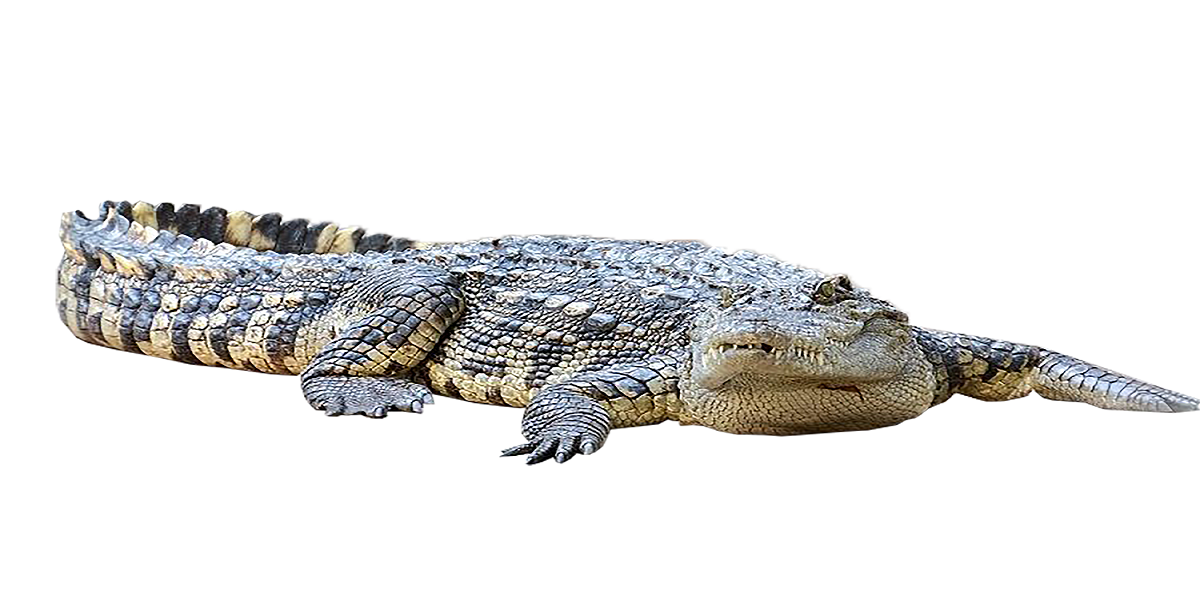
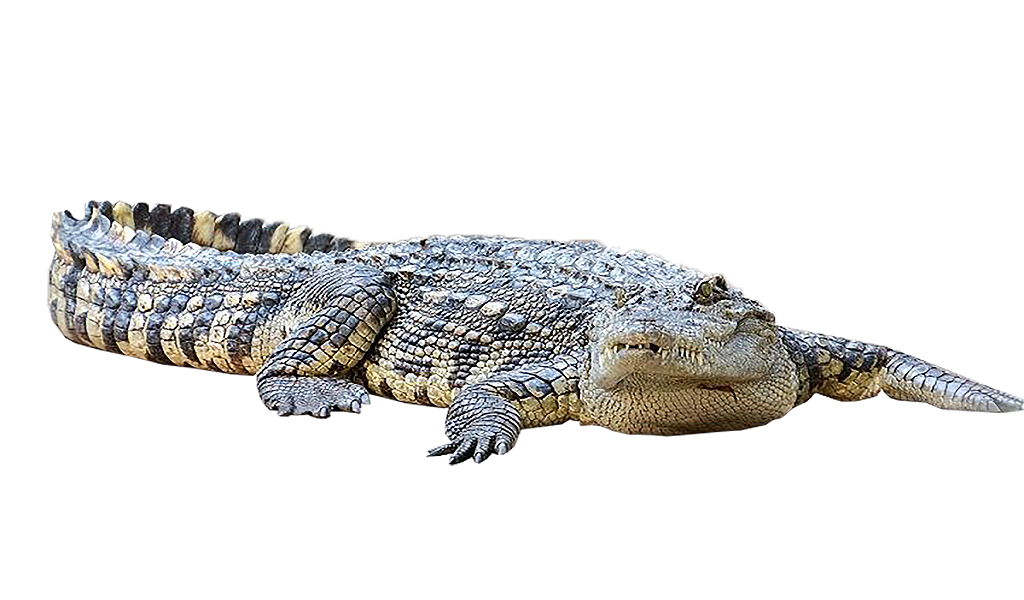
basicly finished the png lib's usage

diff --git a/core_api/type_handle.c b/core_api/type_handle.c
@@ -93,6 +93,7 @@ error:
 }
 
 unsigned int * png_header_handle(const char * file_path){
+//	int i,j;
 	unsigned int * bitmap = NULL;
 
 	png_structp png_ptr = png_create_read_struct (PNG_LIBPNG_VER_STRING, NULL, NULL, NULL); 
@@ -116,13 +117,37 @@ unsigned int * png_header_handle(const char * file_path){
 	}
 
 	png_init_io(png_ptr, fp);
-	
-	int png_transforms = PNG_TRANSFORM_STRIP_ALPHA | PNG_TRANSFORM_EXPAND | PNG_TRANSFORM_SHIFT;
+//	int png_transforms = PNG_TRANSFORM_STRIP_ALPHA | PNG_TRANSFORM_EXPAND | PNG_TRANSFORM_STRIP_16 | PNG_TRANSFORM_SHIFT;
+	int png_transforms = PNG_TRANSFORM_STRIP_ALPHA | PNG_TRANSFORM_EXPAND;
+	//	int png_transforms = PNG_TRANSFORM_EXPAND | PNG_TRANSFORM_SHIFT;
 	png_read_png(png_ptr, info_ptr, png_transforms, NULL);
 
 	//handle the png_ptr to bitmap
-	LOG(DEBUG, "width %lu heigh %lu bitdeep %u", info_ptr->width, info_ptr->height, info_ptr->bit_depth);
+	LOG(DEBUG, "width %lu height %lu bitdeep %u rowbytes %lu bpp %u", info_ptr->width, info_ptr->height, info_ptr->bit_depth,info_ptr->rowbytes, info_ptr->pixel_depth);
 	//bitmap = malloc(info_ptr->width * info_ptr->height *sizeof(unsigned int));
+	
+//	int i ;
+//	for(i = 0; i< 1024*4; i++ ){
+	//	LOG(DEBUG, " %x ", info_ptr->row_pointers[300][1024 * 4]);
+//	}
+	//now we know the row pointer gives no 00 for align
+#if 0	
+	bitmap = (unsigned int *)malloc(info_ptr->height * info_ptr->width * 4);
+	//printf("%ld",(unsigned int)info_ptr->height * info_ptr->width * sizeof(unsigned int));
+	for(i=0;i < info_ptr->height * info_ptr->width;){
+		for(j = 0;j < info_ptr->width;){
+			bitmap[i] =( info_ptr->row_pointers[i % 1024][j*3]<<16)|  (info_ptr->row_pointers[i % 1024][j*3 + 1] <<8)| (info_ptr->row_pointers[i % 1024][j*3 + 2]);
+			//LOG(DEBUG, "0x%x ", bitmap[i]);
+			j++;
+			i++;
+			LOG(DEBUG, "pixel %d ", j);
+		}
+		LOG(DEBUG, "row %d done", i + 1);
+	}
+#endif
+	image_set2((unsigned char **)info_ptr->row_pointers);
+
+
 
 	png_destroy_read_struct(&png_ptr, &info_ptr, png_infopp_NULL);
 
@@ -176,8 +201,11 @@ int do_type_handle(const char * file_path){
 			//png
 			bitmap = png_header_handle(file_path);
 			//bitmap = lib_png_handle();
-			if(bitmap == NULL)
+			if(bitmap == NULL){
 				printf("TEST FINISHED");
+				break;
+			}
+			image_set(bitmap);
 			free(bitmap);
 			break;
 		default:

diff --git a/fbapp/userfb.c b/fbapp/userfb.c
@@ -50,8 +50,54 @@ void image_set(const unsigned int * bitmap){
 	}	
 #endif
 
+#if 0
+	for(i = 0; i < IMAGES_HEIGHT; i++){
+		for(j = 0; j < IMAGES_WIDTH;j++){
+			*copy_pbuf++ = bitmap[i][j];
+		}	
+		
+		//*copy_pbuf++ = images[i];
+			
+	}	
+#endif
 }
 
+void image_set2(unsigned char ** bitmap){
+	//however, now I only want to display one image
+	//now, let's consider a array with image infomation	
+	unsigned int * copy_pbuf = pbuf;//this pointer used for move from fb's start to end for image display
+	int i,j;
+
+#if 0 
+	unsigned char * ptr = NULL;
+	fd_img = open(file, O_RDONLY);
+	ptr =(unsigned char *) malloc(1024 * 1024 * 2);
+	printf("%p \n", ptr);
+	ret = read(fd_img, ptr, 1024 * 1024 * 2);
+	printf("---------- %d -------------\n", ret);
+	//maybe this module should belong to file manage module
+	bitmap = core_handle_bmp(ptr);
+#endif
+
+	//printf("TEST");
+#if 0
+	for(i = 0; i < IMAGES_HEIGHT * IMAGES_WIDTH; i++){
+			//*copy_pbuf++ = images[i];
+			*copy_pbuf++ = bitmap[i];
+	}	
+#endif
+
+#if 1
+	for(i = 0; i < IMAGES_HEIGHT; i++){
+		for(j = 0; j < IMAGES_WIDTH;j++){
+			*copy_pbuf++ = (bitmap[i][j*3 + 1] << 16) |(bitmap[i][j*3 + 1] << 8) |(bitmap[i][j*3 + 1]);
+		}	
+		
+		//*copy_pbuf++ = images[i];
+			
+	}	
+#endif
+}
 //pointer return with two charcter
 //first, could the transfer of pointer consume less ram
 //second, could handle the situation of error,    that is, i can return NULL as a kind of pointer

diff --git a/include/userfb.h b/include/userfb.h
@@ -27,6 +27,7 @@ struct fb_user_info {
 //function in userfb.c
 void background_set(unsigned int width, unsigned int heigh, unsigned int color_argb);
 void image_set(const unsigned int * file);
+void image_set2(unsigned char ** bitmap);
 int fb_open();
 void fb_close(int fd);
 
